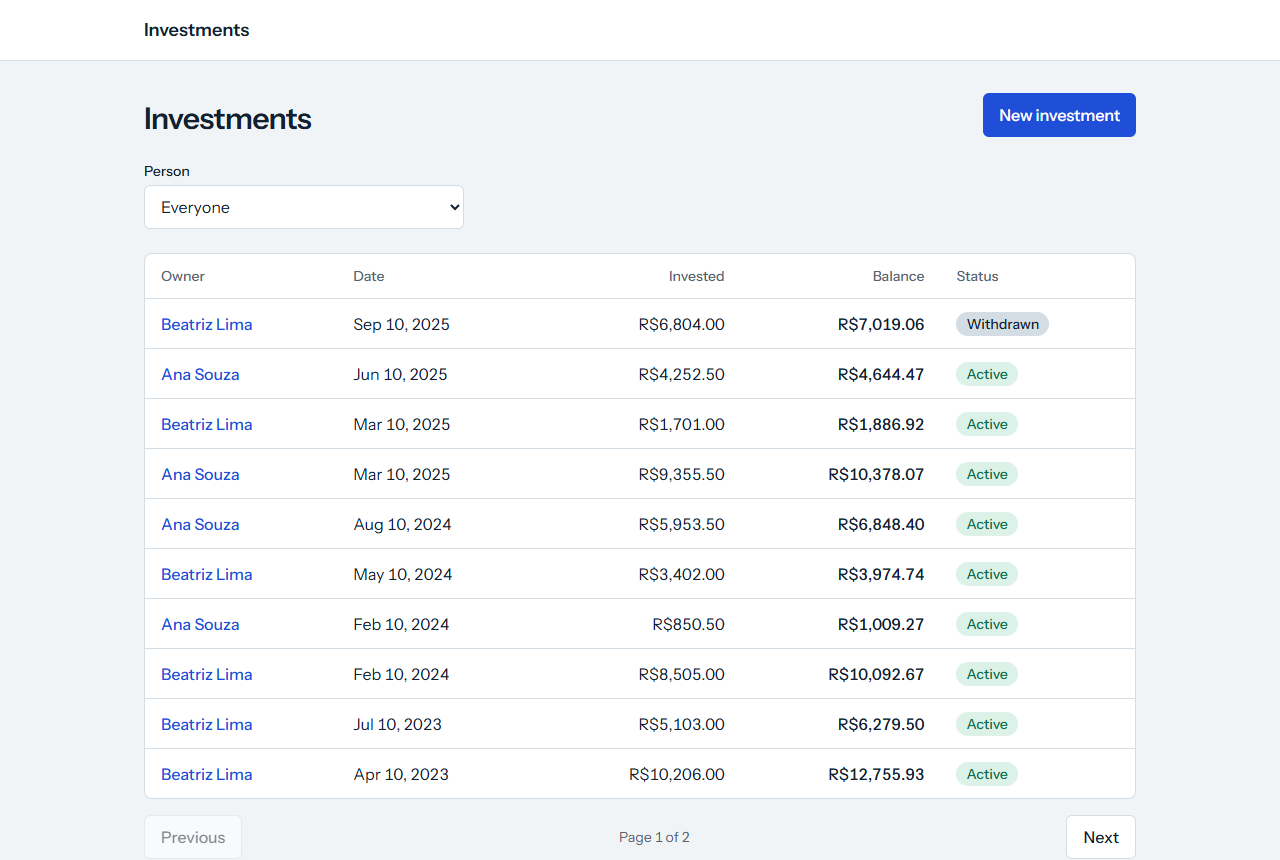
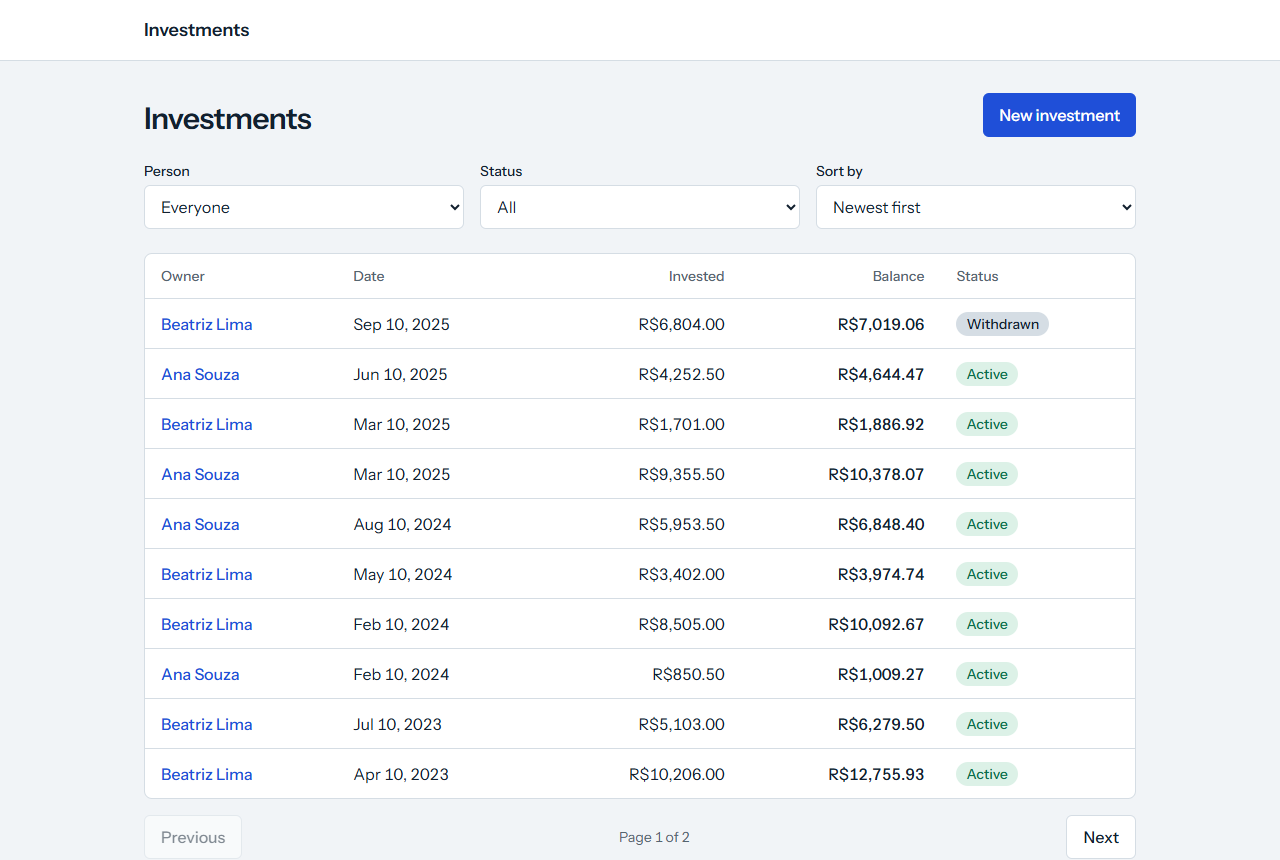
docs: describe new features and how the tools were chosen

diff --git a/README.md b/README.md
@@ -1,13 +1,15 @@
 # Investments
 
+[![CI](https://github.com/cruzazevedorafael/fullstack-test/actions/workflows/ci.yml/badge.svg?branch=development)](https://github.com/cruzazevedorafael/fullstack-test/actions/workflows/ci.yml)
+
 Fullstack application that stores and manages investments: create, view, list and withdraw, with compound monthly gains and regressive taxes. The original statement is in [CHALLENGE.md](CHALLENGE.md).
 
 - **Backend:** C# / .NET 10, ASP.NET Core, EF Core, SQLite
 - **Frontend:** Angular 22, TypeScript, Tailwind CSS
 
-| List | Withdrawal |
+| List | Details |
 | --- | --- |
-| ![List of investments](screenshots/01-list.png) | ![Withdrawal preview](screenshots/04-withdraw.png) |
+| ![List of investments](screenshots/01-list.png) | ![Details with growth chart](screenshots/03-detail.png) |
 
 More images in [screenshots](screenshots).
 
@@ -33,6 +35,8 @@ cd backend && dotnet test
 cd frontend && npm test -- --watch=false
 ```
 
+Both suites and the production build of the UI also run on GitHub Actions at each push and pull request.
+
 ## API documentation
 
 With the API running:
@@ -44,9 +48,12 @@ With the API running:
 | --- | --- | --- |
 | `GET` | `/api/owners` | List people |
 | `POST` | `/api/owners` | Register a person |
-| `GET` | `/api/investments?ownerId=&page=1&pageSize=10` | List investments, optionally of a single person |
+| `GET` | `/api/rules` | View the gain and tax rates in use |
+| `GET` | `/api/investments?ownerId=&status=&sortBy=&sortDirection=&page=1&pageSize=10` | List investments, with optional filters and order |
+| `GET` | `/api/investments/simulation?amount=&creationDate=&months=` | Simulate a withdrawal after some months, without creating anything |
 | `POST` | `/api/investments` | Create an investment |
-| `GET` | `/api/investments/{id}` | View initial amount, gains and expected balance |
+| `GET` | `/api/investments/{id}` | View initial amount, gains, expected balance, next gain and a withdrawal today |
+| `GET` | `/api/investments/{id}/growth` | Balance after each monthly gain and a 12-month projection |
 | `GET` | `/api/investments/{id}/withdrawal-preview?date=` | Simulate a withdrawal |
 | `POST` | `/api/investments/{id}/withdrawal` | Withdraw |
 
@@ -67,6 +74,16 @@ frontend/
 
 The two projects are deployed independently. The UI reads the API address from `config.json` when it starts, so the same build works in any environment. The API reads the allowed UI origins from `Cors:AllowedOrigins`.
 
+## How the tools were chosen
+
+- **C# / .NET 10 and ASP.NET Core:** C# was requested. .NET 10 is the current LTS.
+- **EF Core + SQLite:** migrations and persistence with no database to install, so the API runs with a single command.
+- **Angular 22 + TypeScript:** "Angular.JS + TypeScript" was requested and read as current Angular.
+- **Tailwind CSS + Angular CDK:** own layout, with accessible dialogs from the CDK instead of a full component library.
+- **No chart library:** there is a single line chart, drawn as SVG by a small component.
+- **Scalar + OpenAPI:** documentation generated from the code and navigable in the browser.
+- **xUnit and Vitest:** default test tools of current .NET and Angular.
+
 ## Decisions
 
 The statement leaves some points open. These are the choices made. The business rules are covered by tests.
@@ -82,6 +99,8 @@ The statement leaves some points open. These are the choices made. The business 
 | Amount | Greater than zero, at most two decimal places, up to 999,999,999,999.99. Together with the minimum date (1900-01-01), this keeps the compound gain inside the range of `decimal`. |
 | Double withdrawal | Refused with `409`, including simultaneous requests (optimistic concurrency). |
 | List | The API asks for a person's list and the UI for all investments, so the filter by person is optional. |
+| Sorting | By date, amount or owner. Not by balance, because it is calculated and not stored. |
+| Beyond the statement | Simulation, growth chart, status filter and sorting. Projections use the current rate and nothing simulated is stored. |
 | Rates | Configurable in `appsettings.json`, section `InvestmentRules`. |
 | Notifications | Sent on creation and withdrawal. They are only logged until `Smtp:Host` is configured. A failure never undoes the operation. |
 | Angular | "Angular.JS + TypeScript" was read as current Angular, since AngularJS 1.x reached end of life. |
@@ -103,6 +122,8 @@ The statement leaves some points open. These are the choices made. The business 
 
 ## Known limitations
 
+- If the rate changes, active investments are recalculated from the start with the new rate. The growth chart of a withdrawn investment is too, although its stored values don't change.
+- Sorting by owner ignores case, but places accented initials after Z (SQLite collation).
 - There is no authentication: anyone with access to the API sees every investment.
 - The list of people is not paginated.
 - Migrations run when the API starts, which suits a single instance only.
